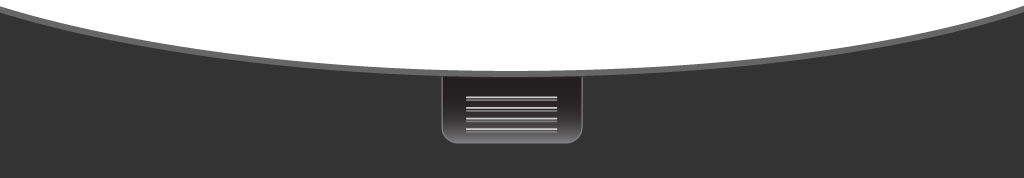
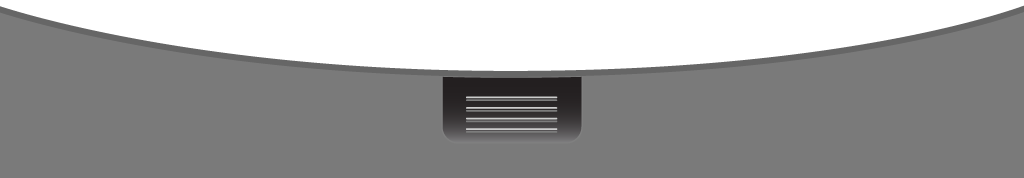
updated color picker code

diff --git a/www/index.html b/www/index.html
@@ -22,11 +22,7 @@
         
     <!-- jquery mobile  !-->
     <script src="js/jquery.mobile-1.2.0.min.js"></script>
-    <!-- YUI Libraries 
-    <script src="js/yui.js"></script>
-     -->
-        
-           
+
     <!-- MAIN JAVASCRIPT FUNCTIONS -->
     <script type="text/javascript">
         
@@ -80,13 +76,22 @@
         / */
         
         //// COLOR CHANGE FUNCTIONS ///////////
-        function changeBackgroundColor(hexColor){
+        ///*
+        function doTrimColor(hexColor){
             // console.log("INIT BG COLOR CHANGE:  " + hexColor);
-            Processing.getInstanceById('sketch').changeBGColor(hexColor);
+            Processing.getInstanceById('sketch').changeTrimColor(hexColor);
             
             bgColorConfig = hexColor;
             
         }
+        function doBackgroundColor(hexColor){
+            // console.log("INIT BG COLOR CHANGE:  " + hexColor);
+            Processing.getInstanceById('sketch').changeTrimColor(hexColor);
+            
+            bgColorConfig = hexColor;
+            
+        }
+         //*/
         
         /// SPAWN SLIDER
         function updateSpawns(newValue){
@@ -104,6 +109,7 @@
     <!-- COLOR PICKER CODE !-->
         
         <script type="text/javascript" charset="utf-8">
+            /// color picker 1
             $(document).ready(function() {
                               $('#color_picker').hide();
                               var f = $.farbtastic('#picker');
@@ -120,8 +126,28 @@
                                      p.css('opacity', 1);
                                      $(selected = this).css('opacity', 1).addClass('colorwell-selected');
                                      });
+                              $(selected = "#color1").css('opacity', 1).addClass('colorwell-selected');
+                              });
+            /// color picker 2
+            $(document).ready(function() {
+                              $('#color_picker').hide();
+                              var f = $.farbtastic('#picker2');
+                              var p = $('#picker2');
+                              var selected;
+                              $('.colorwell')
+                              .each(function () { f.linkTo(this); $(this).css('opacity', .5); })
+                              .focus(function() {
+                                     /// handle button highlights
+                                     if (selected) {
+                                     $(selected).css('opacity', .5).removeClass('colorwell-selected');
+                                     }
+                                     f.linkTo(this);
+                                     p.css('opacity', 1);
+                                     $(selected = this).css('opacity', 1).addClass('colorwell-selected');
+                                     });
                               $(selected = "#color2").css('opacity', 1).addClass('colorwell-selected');
                               });
+
             </script>
         
         <!-- end color picker code -->
@@ -231,7 +257,7 @@
         }
         
         ////
-        void changeBGColor(int theColor){
+        void changeTrimColor(int theColor){
             //// change font color
             string dColor = theColor.substring(1);
             color newColor = unhex("FF" + dColor);
@@ -352,16 +378,15 @@
         <div id="interface">
             <!-- left color picker -->
             <div id="colorPickerLeft" style="width: 200px;">
-                <div id="color_picker" style="color: red; font-size: 1.4em"></div>
-                    <form action="">
+
+                <form action="">
                     <div id="picker" style="float: left;"></div>
                     <div class="form-item" id="form-item">
-                    <input type="text" id="color2" name="color2" class="colorwell" value="#FFFFFF" readonly="true" style="width:170px"/>
-                    
-                    </form>
-                </div>
+                    <input type="text" id="color1" name="color1" class="colorwell" value="#FFFFFF" readonly="true" style="width:170px"/>
+                    </div>
+                </form>
             </div>
-            <div id="sliderHolder" >
+            <div id="sliderHolder" style="left:175px;">
             <!-- left slider list -->
                 <ul>
                 <li style="width:250px;">
@@ -373,12 +398,35 @@
                 </li>
                 </ul>
             </div>
+            <div id="sliderHolder" style="left:550px;" >
+                <!-- right slider list -->
+                <ul>
+                    <li style="width:250px;">
+                        <!-- <div id ="GravityDial" class="yui3-skin-sam"></div> -->
+                        <input type="range" class="gravitySlider1" min="-200" max="200" value="0" step="1" onchange="updateGravity(this.value)"  data-theme="a" style="display : none !important; margin-bottom:10px;"/>
+                    </li>
+                    <li style="width:250px;">
+                        <input type="range" class="spawnSlider1" min="0" max="400" value="50" step="1" onchange="updateSpawns(this.value)"  data-theme="a" style="display : none !important; margin-bottom:10px;"/>
+                    </li>
+                </ul>
+            </div>
+
+            <!-- right color picker -->
+            <div id="colorPickerRight" style="width: 200px;">
+                
+                <form action="">
+                    <div id="picker2" style="float: left;"></div>
+                    <div class="form-item" id="form-item">
+                        <input type="text" id="color2" name="color2" class="colorwell" value="#FFFFFF" readonly="true" style="width:170px"/>
+                    </div>
+                </form>
+            </div>
 
 
             <!--  end interface -->
-            
+    
         </div>
-  
+      
 
     
    <!-- end container class -->
@@ -387,37 +435,4 @@
   </body>
 </html>
 
-<!-- YUI SANDBOX
-
-<script>
-    
-    ///// YUI CALLOUTS
-    updateGravity = function(e) {
-        // console.log("DIAL: : " +e.newVal);
-    var processingInstance = Processing.getInstanceById('sketch');
-    processingInstance.changeGravity(e.newVal);
-       //  Y.one('#scene').setStyle('top', (originY + (e.newVal * 10)) + 'px');
-    }
-    // Create a YUI sandbox on your page.
-    YUI({ filter: 'raw' }).use("dial", function(Y) {
-                               
-            var dial = new Y.Dial({
-                    min:0,
-                    max:360,
-                    stepsPerRev:1,
-                    diameter:155,
-                    value: 5,
-                    after : {
-                            valueChange: Y.bind( updateGravity, dial )
-                        }
-                    });
-                    dial.set('strings',{'label':'GRAVITY:', 'resetStr':'Off'});
-                               
-                    dial.render("#GravityDial");                                
-                                                             
-    });
-
-    </script>
- 
-  -->
 

diff --git a/www/js/farbtastic.js b/www/js/farbtastic.js
@@ -273,13 +273,15 @@ jQuery._farbtastic = function (container, callback) {
       $(fb.callback).each(function() {
         if (this.value && this.value != fb.color) {
           this.value = fb.color;
-            
+          
+        ////////////////////////
         ////PASS THE COLOR VALUE to the DOCUMENT
+        ////////////////////////
             if(this.id == "color1"){
-                $(document).click(changeFontColor(this.value));
+                $(document).click(doTrimColor(this.value));
                           
             } else if(this.id == "color2"){
-                $(document).click(changeBackgroundColor(this.value));
+                $(document).click(doBackgroundColor(this.value));
                           
             }
 

diff --git a/www/css/style.css b/www/css/style.css
@@ -91,15 +91,20 @@ a { text-decoration: none; }
     
     margin-right:50px;
 }
+#colorPickerRight{
+    position:absolute;
+    left:810px;
+    top:0px;
+}
 #sliderHolder {
     position:absolute;
-    list-style-type: none;
-    left:175px;
+
     top:75px;
     margin:0px;
 }
 #sliderHolder li{
-    margin-top:20px; 
+    margin-top:20px;
+    list-style-type: none;
 }
 
 /* this accellerates rendering for some reason */
